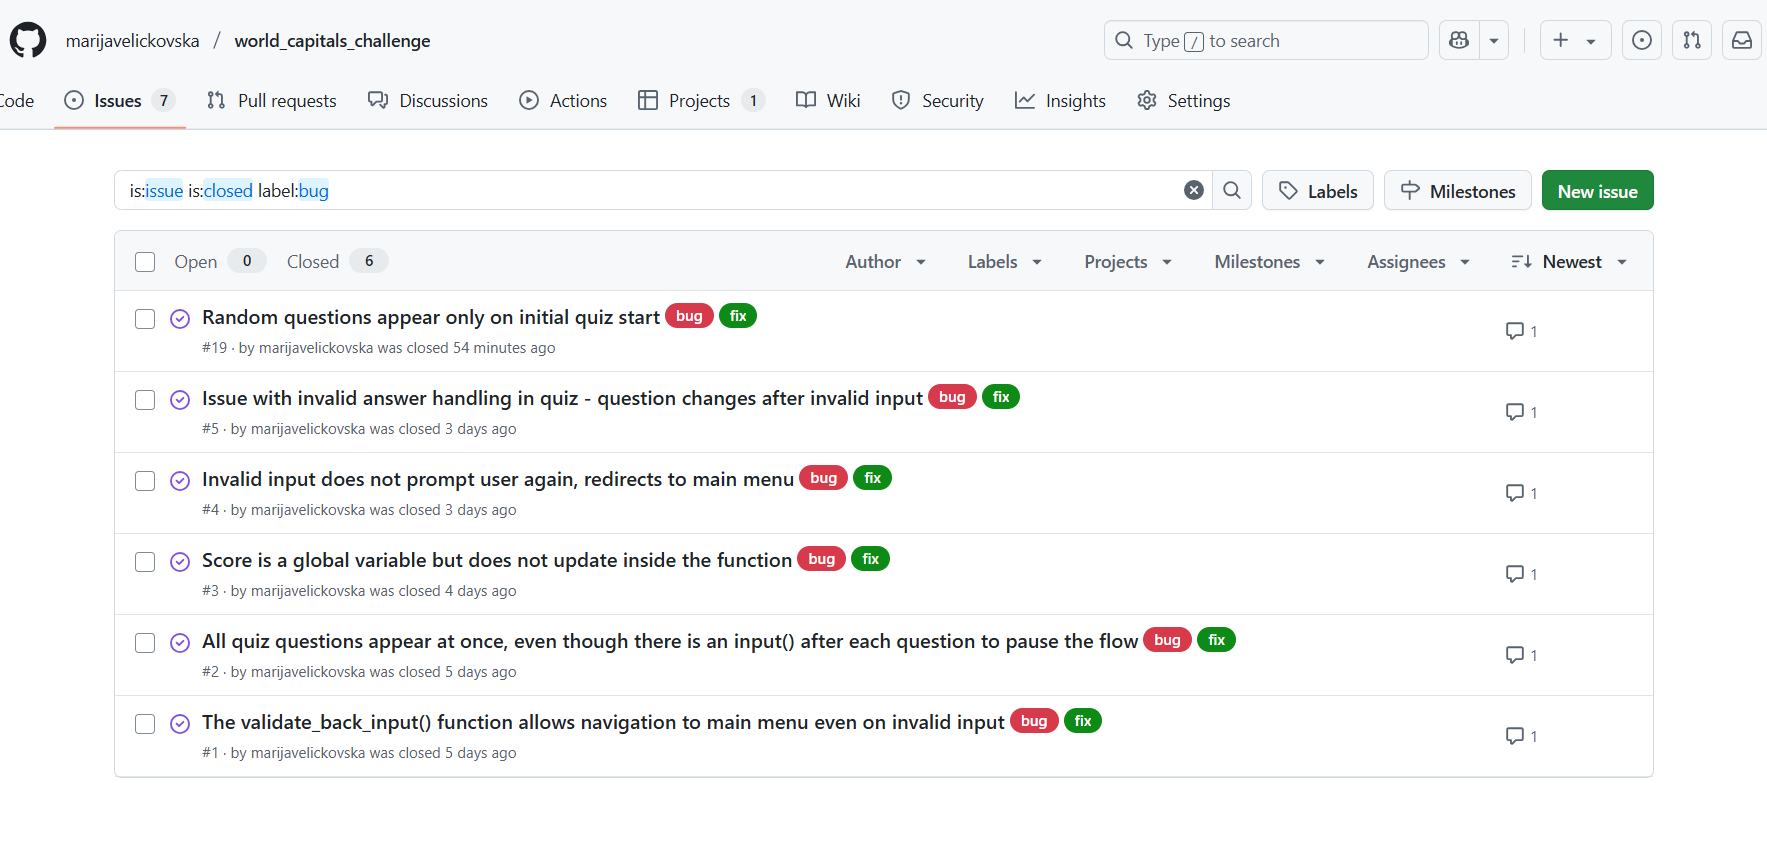
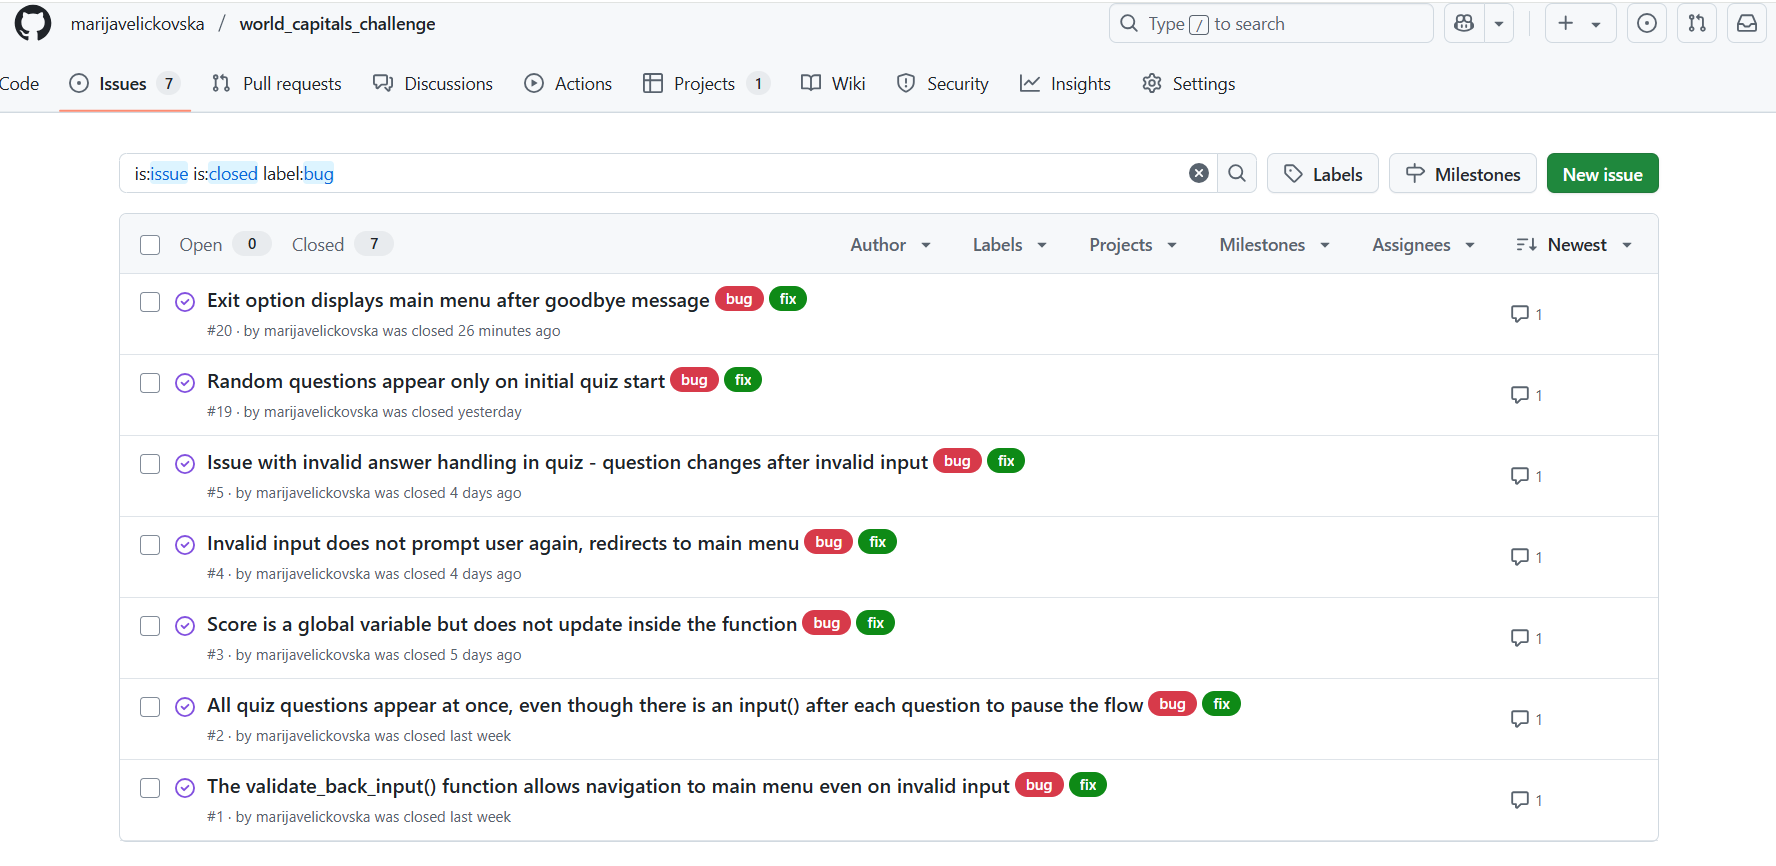
Fix program so it doesn't show main menu after exit issue #20

diff --git a/run.py b/run.py
@@ -1,5 +1,6 @@
 import time
 import random
+import sys # added to enable the use of sys.exit()
 import dataQuiz
 import colorama
 from colorama import Fore, Back, Style
@@ -58,12 +59,13 @@ def show_how_to_play():
     ask_to_play_quiz()
 
 
-def exit():
+def exit_program():
     clear()
     print("-"*40)
     print(f"{Fore.YELLOW}Goodbye!")
     print("-"*40)
     print()
+    sys.exit()
 
 
 def validate_yes_no_input(yes_no_answer):
@@ -163,7 +165,7 @@ def check_if_correct(
             f"{is_correct}"
         )
         print(
-            f"{Fore.GREEN}Correct Answer: {Fore.RESET} {correct_text}"
+            f"{Fore.GREEN}Correct Answer: {Fore.RESET} {correct_text} "
             f"is the capital of {country}"
         )
     print(f"{Style.BRIGHT}Your score is: {score}\n")
@@ -273,8 +275,7 @@ def main_menu():
             elif choice == "3":
                 start_quiz()
             elif choice == "4":
-                exit()
-                return False
+                exit_program()
             else:
                 print("Invalid choice. Please enter a number from 1 to 4.\n")
 

diff --git a/TESTING.md b/TESTING.md
@@ -60,7 +60,7 @@ Defensive programming was manually tested with the below user acceptance testing
 | Incorrect answer message  | Feature is expected to display the user's answer and show the correct one with a note that the answer was incorrect. | Answer incorrectly and check if the incorrect answer message shows the user's answer and correct answer. | Works as expected – the wrong answer message is shown along with the correct answer. | ![screenshot](documentation/defensive/incorrect-answer.png) |
 | Score | Feature is expected to display and update the score with each correct answer throughout the quiz. | Track score throughout the quiz to ensure it increases only on correct answers. | Works as expected – score is accurate and updates correctly. | ![screenshot](documentation/defensive/score.png) |
 | End quiz | Feature is expected to show a completion message, display the final score, and offer a yes/no input to restart or exit. | Finish the quiz and check if final message, score, and input appear. | Works as expected – final results and replay option are shown. | ![screenshot](documentation/defensive/end-quiz.png) |
-| Exit  | Feature is expected to display a goodbye message when the user chooses to exit. | Choose the exit option and verify that a goodbye message appears. | Works as expected – exit message is displayed correctly. | ![screenshot](documentation/defensive/exit.png) |
+| Exit | Feature is expected to display a goodbye message and terminate the program when the user chooses to exit. | Choose the exit option and verify that a goodbye message appears and the program stops running. | Works as expected – goodbye message is displayed and the program exits correctly. | ![screenshot](documentation/defensive/exit.png) |
 
 ## User Story Testing
 

diff --git a/README.md b/README.md
@@ -163,7 +163,7 @@ The primary functions used on this application are:
 - `show_how_to_play()`
     - Displays instructions on how to play the quiz.
 
-- `exit()`
+- `exit_program()`
     - Displays goodbye message and exits the program.
 
 - `validate_yes_no_input()`
@@ -197,6 +197,7 @@ I've used the following Python packages and external imports.
 - `time`: used for adding time delays
 - `random`: used to get a random choice from a list
 - `colorama`: used for including color in the terminal
+- `sys`: added to allow use of sys.exit()
 
 
 ## Agile Development Process
